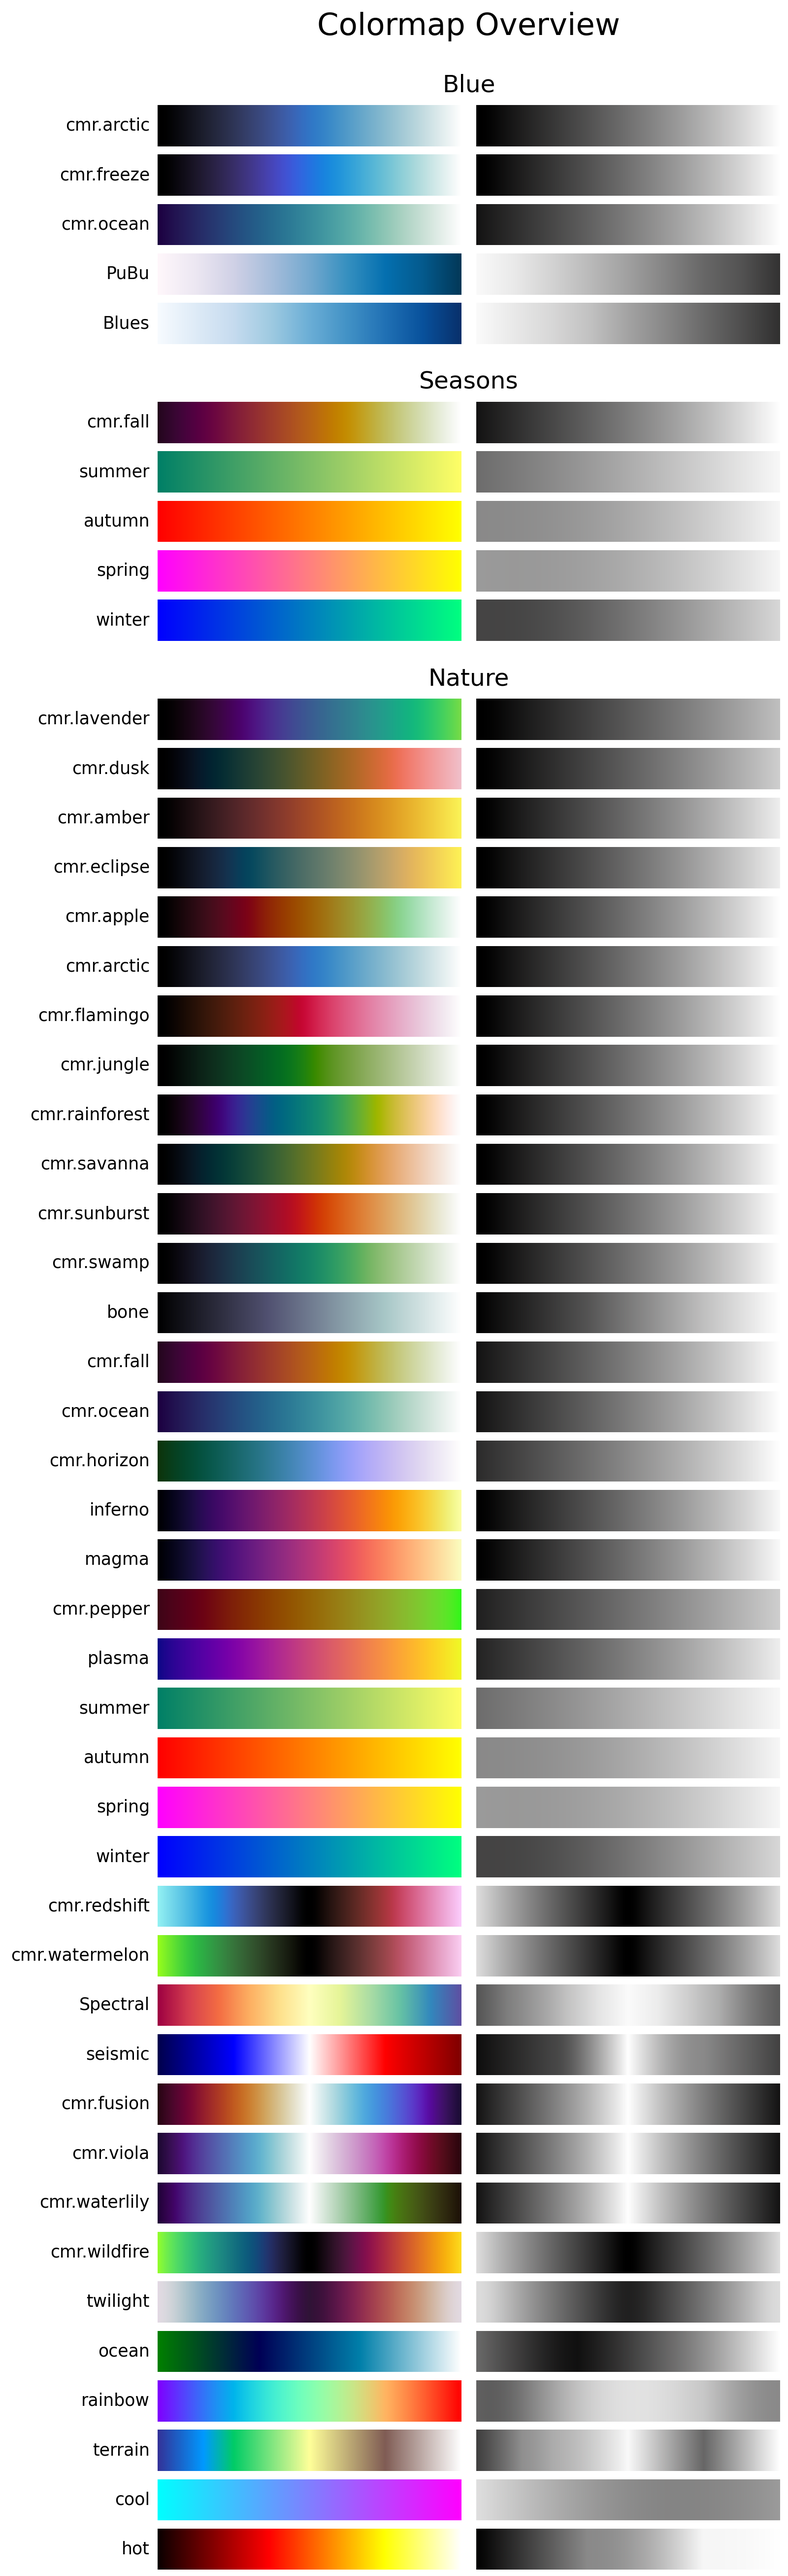
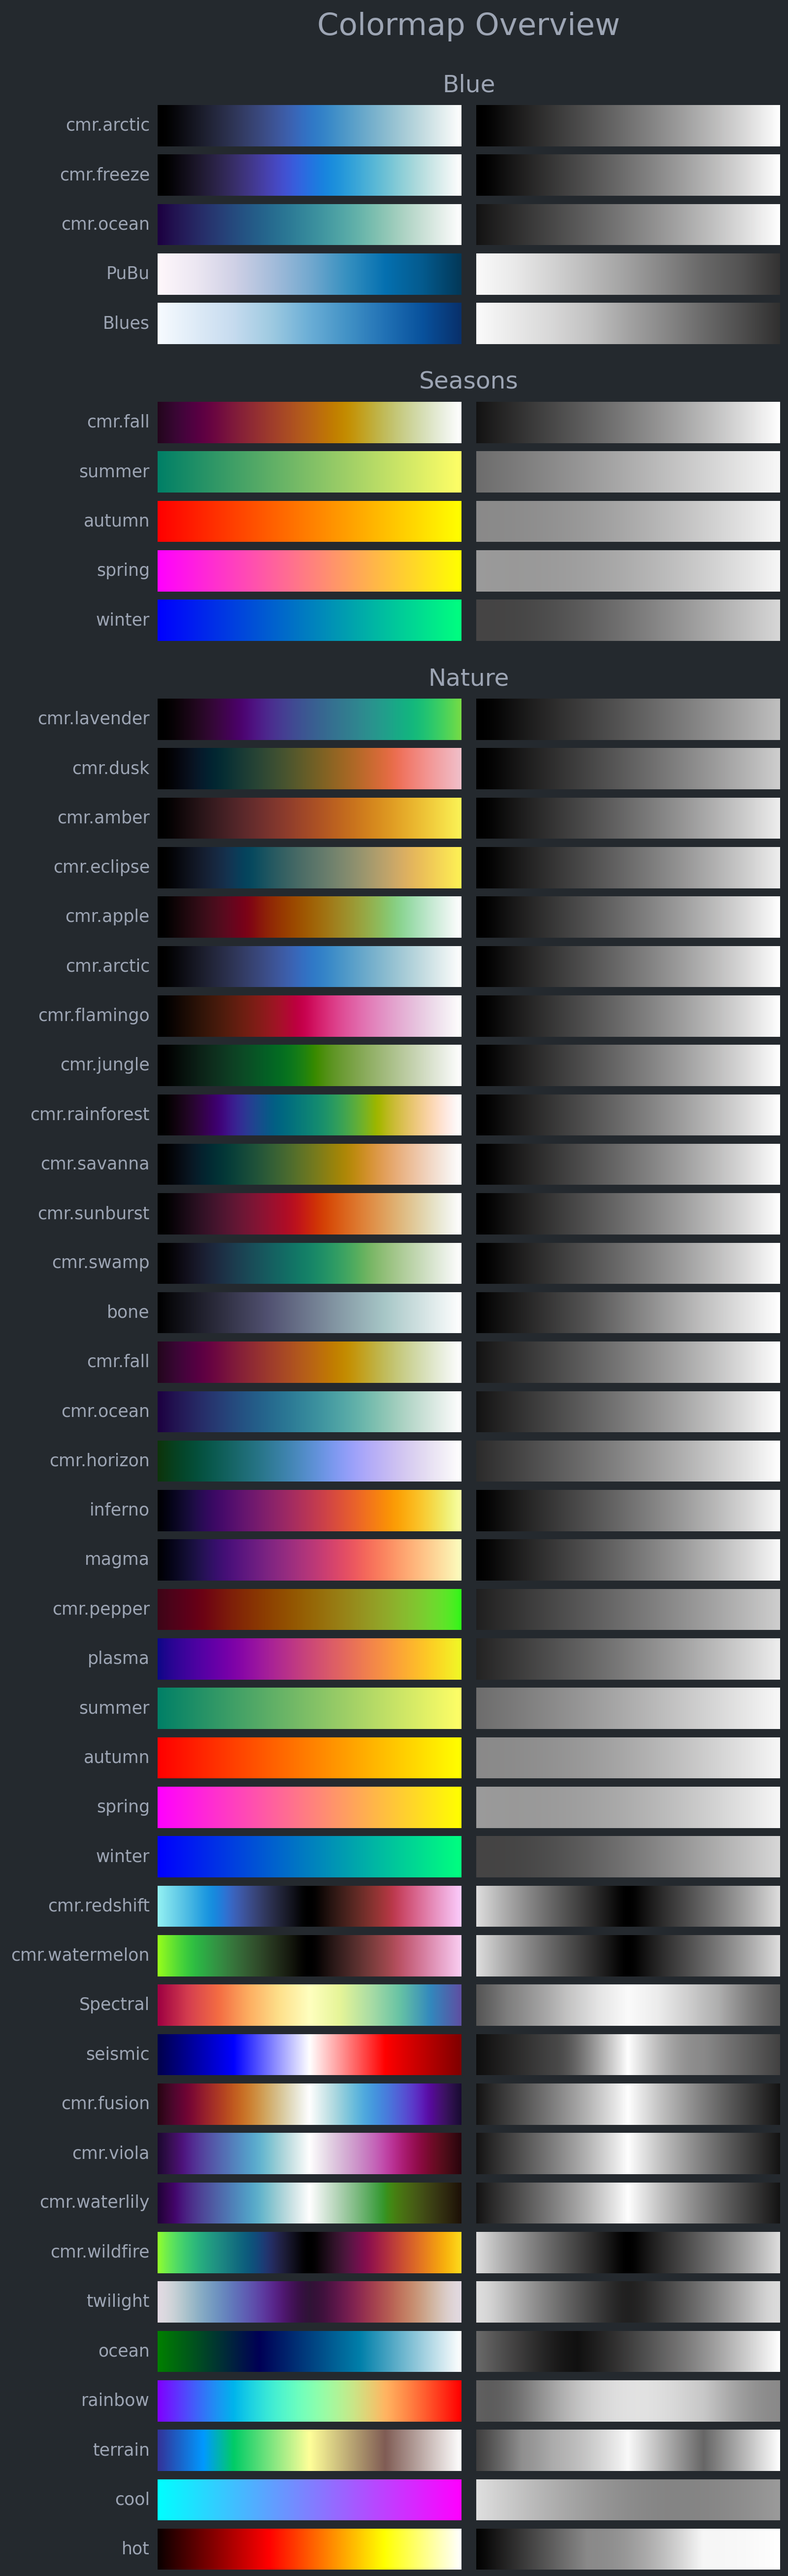
Added 'dark_mode' option to 'create_cmap_overview'.

diff --git a/cmasher/utils.py b/cmasher/utils.py
@@ -259,7 +259,7 @@ def create_cmap_mod(cmap, *, save_dir='.'):
 # This function creates an overview plot of all colormaps specified
 def create_cmap_overview(cmaps=None, *, savefig=None, use_types=True,
                          sort='alphabetical', plot_profile=False,
-                         title="Colormap Overview"):
+                         title="Colormap Overview", dark_mode=False):
     """
     Creates an overview plot containing all colormaps defined in the provided
     `cmaps`.
@@ -299,6 +299,9 @@ def create_cmap_overview(cmaps=None, *, savefig=None, use_types=True,
     title : str or None. Default: "Colormap Overview"
         String to be used as the title of the colormap overview.
         If empty or *None*, no title will be used.
+    dark_mode : bool. Default: False
+        Whether the colormap overview should be created using mostly dark
+        colors.
 
     Notes
     -----
@@ -318,6 +321,18 @@ def create_cmap_overview(cmaps=None, *, savefig=None, use_types=True,
     # If plot_profile is True, set it to its default value
     if plot_profile is True:
         plot_profile = 0.25
+
+    # Check if dark mode is requested
+    if dark_mode:
+        # If so, use dark grey for the background and light grey for the text
+        edge_color = '#24292E'
+        face_color = '#24292E'
+        text_color = '#9DA5B4'
+    else:
+        # If not, use white for the background and black for the text
+        edge_color = '#FFFFFF'
+        face_color = '#FFFFFF'
+        text_color = '#000000'
 
     # If cmaps is None, use cmap_d.values
     if cmaps is None:
@@ -433,7 +448,8 @@ def create_cmap_overview(cmaps=None, *, savefig=None, use_types=True,
     # Create figure instance
     height = 0.4*len(cmaps_list)+0.1
     fig, axs = plt.subplots(figsize=(6.4, height), nrows=len(cmaps_list),
-                            ncols=2)
+                            ncols=2, edgecolor=edge_color,
+                            facecolor=face_color)
 
     # Adjust subplot positioning
     fig.subplots_adjust(top=(1-0.05/height), bottom=0.05/height, left=0.2,
@@ -458,13 +474,13 @@ def create_cmap_overview(cmaps=None, *, savefig=None, use_types=True,
             if cmap[1]:
                 # Write the title as text in the correct position
                 fig.text(0.595, pos0.y0+pos0.height/2, cmap[0],
-                         va='center', ha='center', fontsize=18)
+                         va='center', ha='center', fontsize=18, c=text_color)
 
             # If it is a cm_type
             else:
                 # Write the cm_type as text in the correct position
                 fig.text(0.595, pos0.y0, cmap[0],
-                         va='bottom', ha='center', fontsize=14)
+                         va='bottom', ha='center', fontsize=14, c=text_color)
 
         # Else, this is a colormap
         else:
@@ -541,12 +557,13 @@ def create_cmap_overview(cmaps=None, *, savefig=None, use_types=True,
             x_text = pos0.x0-0.01
             y_text = pos0.y0+pos0.height/2
             fig.text(x_text, y_text, cmap.name,
-                     va='center', ha='right', fontsize=10)
+                     va='center', ha='right', fontsize=10, c=text_color)
 
     # If savefig is not None, save the figure
     if savefig is not None:
         dpi = 100 if (path.splitext(savefig)[1] == '.svg') else 250
-        plt.savefig(savefig, dpi=dpi)
+        plt.savefig(savefig, dpi=dpi, facecolor=face_color,
+                    edgecolor=edge_color)
         plt.close(fig)
 
     # Else, simply show it

diff --git a/cmasher/tests/test_utils.py b/cmasher/tests/test_utils.py
@@ -102,6 +102,10 @@ class Test_create_cmap_overview(object):
     def test_lightness_profiles(self):
         create_cmap_overview(mpl_cmaps, plot_profile=True)
 
+    # Test if dark mode can be enabled for the overview
+    def test_dark_mode(self):
+        create_cmap_overview(mpl_cmaps, dark_mode=True)
+
     # Test if providing a custom dict of colormaps works
     def test_dict(self):
         create_cmap_overview({'test1': [cmrcm.rainforest],

diff --git a/cmasher/__version__.py b/cmasher/__version__.py
@@ -10,4 +10,4 @@ Stores the different versions of the *CMasher* package.
 
 # %% VERSIONS
 # Default/Latest/Current version
-__version__ = '1.5.8'
+__version__ = '1.5.9'

diff --git a/docs/source/user/usage.rst b/docs/source/user/usage.rst
@@ -60,6 +60,8 @@ Keep in mind that sorting on lightness profiles is only useful if all colormaps 
 
 
 Additionally, by using :pycode:`plot_profile=True`, one can plot the lightness profile of all colormaps (except those that are classified as 'qualitative') on top of their grey-scaled versions, allowing for quick performance comparisons between colormaps.
+For those that want to show a colormap overview on a page that usually uses dark mode or simply want to have a dark background instead of a white background in the overview, one can enable dark mode in the overview by using :pycode:`dark_mode=True`.
+An example of dark mode is shown in the :ref:`cmap_overview_categories` overview.
 And, finally, one can set the title that is displayed at the top of the colormap overview with the `title` argument, which by default is set to :pycode:`"Colormap Overview"`.
 
 Below is a list of several colormap overview examples with their scripts:
@@ -212,7 +214,7 @@ Note that :func:`~cmasher.get_sub_cmap` does not interpolate between colors, as 
 In order to avoid creating colormaps that have too few different colors to look smooth, it is recommended to include at least 128 different colors.
 For *CMasher* colormaps, this means that one should aim to use at least :math:`50\%` of sequential colormaps (256 colors), or :math:`25\%` of diverging colormaps (511 colors).
 
-It is also possible to use the :func:`~cmasher.get_sub_cmap` function to create qualitative sub-colormaps of any colormap, by setting the :pycode:`N` parameter to an integer.
+It is also possible to use the :func:`~cmasher.get_sub_cmap` function to create qualitative sub-colormaps of any colormap, by setting the `N` argument to an integer.
 This works very similarly to the :func:`~cmasher.take_cmap_colors` function described below, but returns a :obj:`~matplotlib.colors.ListedColormap` object instead of a list of colors.
 Below is an example of a qualitative sub-colormap with 5 colors using the central :math:`60\%` of the :ref:`lilac` colormap, created with :pycode:`cmr.get_sub_cmap('cmr.lilac', 0.2, 0.8, N=5)`:
 

diff --git a/docs/source/user/cmap_overviews/categories.rst b/docs/source/user/cmap_overviews/categories.rst
@@ -1,7 +1,9 @@
+.. _cmap_overview_categories:
+
 Colormap categories
 ===================
 This colormap overview shows a collection of selected colormaps, divided into specified categories (determined at v1.4.0).
-The colormaps are not sorted within each category.
+The overview uses dark mode and the colormaps are not sorted within each category.
 
 .. image:: ../images/cmap_categories.png
     :alt: Colormap overview of selected colormaps, divided into categories.
@@ -68,4 +70,4 @@ The colormaps are not sorted within each category.
             'hot']}
 
     # Create colormap overview of selected colormaps, divided into categories
-    cmr.create_cmap_overview(cmaps_dct, sort=None)
+    cmr.create_cmap_overview(cmaps_dct, sort=None, dark_mode=True)
